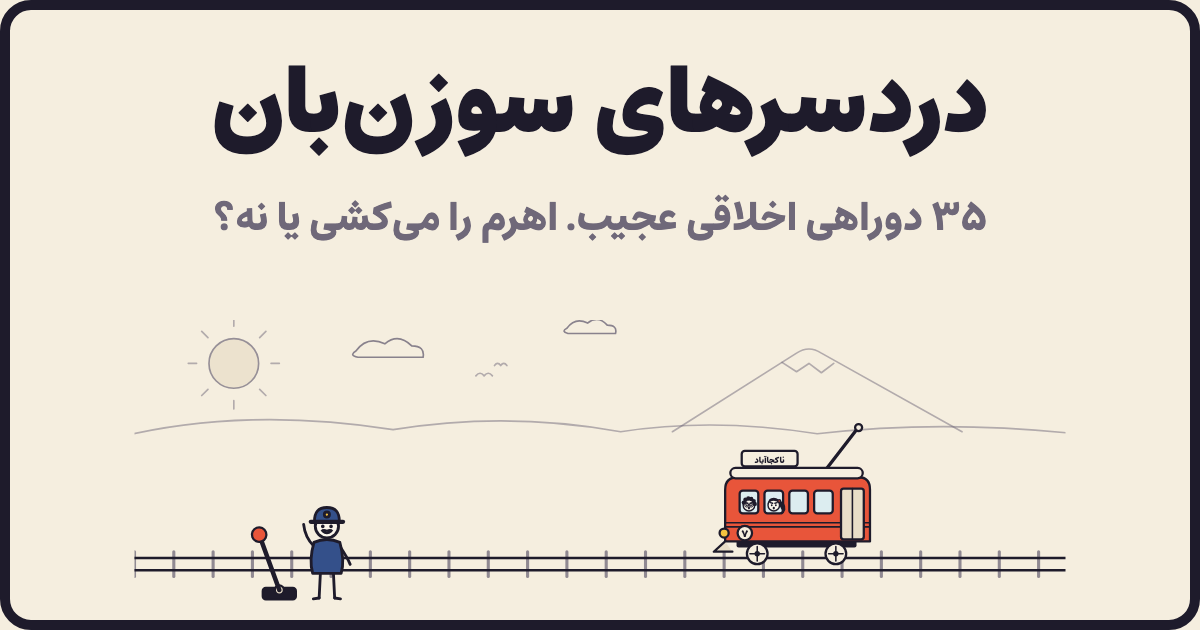
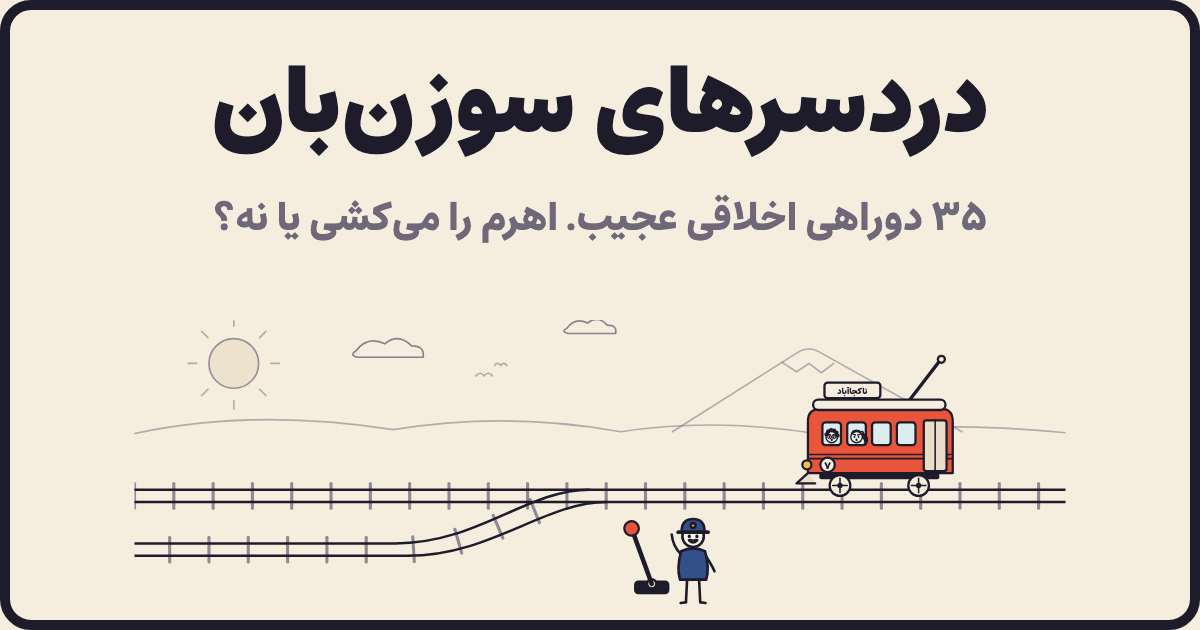
Home hero: switchman and lever beside the track, add a junction
The switchman and lever now stand on the ground in front of the track,
below the trolley's wheels, so the trolley never passes over them. The
track splits after the lever and the trolley runs on the main line.
The scene lives in art.js (heroScene) and is shared by the home page,
the share images and og.png. Reduced motion parks the trolley before
the lever. og.png regenerated; icons unchanged.

Changed region(s): [[0.0925, 0.6032, 0.8942, 0.9651], [0.7708, 0.573, 0.8017, 0.6032]]

diff --git a/public/js/art.js b/public/js/art.js
@@ -681,6 +681,58 @@ export function leverArm() {
   return p('M0 -7 L0 -62', 'ln lever-stick') + circ(0, -64, 7, 'sh f-accent knob');
 }
 
+// ───────────────────────── صحنهی صفحهی اول ─────────────────────────
+// viewBox 0 0 900 300. ریل اصلی وسط صحنه است و قطار فقط روی آن راه میرود. اهرم و سوزنبان
+// جلوتر و پایینتر، کنار ریل روی زمین ایستادهاند و از پایین چرخها پایینترند؛ پس قطار هیچوقت از رویشان رد نمیشود.
+// بعد از اهرم (در جهت حرکت قطار، یعنی سمت چپ) ریل دو شاخه میشود و شاخهی دوم به سمت جلو میپیچد.
+export const HERO_RAIL_Y = 190;
+export const HERO_TROLLEY_PARK = 720;
+
+const HERO_BRANCH = [[448, 190], [388, 190], [338, 242], [258, 242]]; // محور شاخهی دوم (بزیهی مکعبی)
+
+function bezierAt([a, b, c, d], t) {
+  const u = 1 - t;
+  const k = [u * u * u, 3 * u * u * t, 3 * u * t * t, t * t * t];
+  const dk = [-3 * u * u, 3 * u * u - 6 * u * t, 6 * u * t - 3 * t * t, 3 * t * t];
+  const sum = (w, i) => w.reduce((s, wj, j) => s + wj * [a, b, c, d][j][i], 0);
+  return { x: sum(k, 0), y: sum(k, 1), dx: sum(dk, 0), dy: sum(dk, 1) };
+}
+
+function heroTrack() {
+  const y = HERO_RAIL_Y;
+  const tie = (x1, y1, x2, y2) => `<line class="tie" x1="${x1.toFixed(1)}" y1="${y1.toFixed(1)}" x2="${x2.toFixed(1)}" y2="${y2.toFixed(1)}"/>`;
+  let ties = '';
+  for (let x = 0; x <= 912; x += 38) ties += tie(x, y - 12, x, y + 12);
+  // تراورسهای شاخه: روی پیچ عمود بر مسیر، بعد صاف تا لبهی صحنه
+  for (const t of [0.35, 0.55, 0.75, 0.95]) {
+    const { x, y: by, dx, dy } = bezierAt(HERO_BRANCH, t);
+    const n = Math.hypot(dx, dy);
+    const [nx, ny] = [-dy / n * 12, dx / n * 12];
+    ties += tie(x - nx, by - ny, x + nx, by + ny);
+  }
+  const by = HERO_BRANCH[3][1];
+  for (let x = 224; x >= -10; x -= 38) ties += tie(x, by - 12, x, by + 12);
+  const branch = (dy) => {
+    const [a, b, c, d] = HERO_BRANCH.map(([px, py], i) => [px + (i < 2 ? dy * 1.4 : dy), py + dy]);
+    return p(`M${a[0]} ${a[1]} C${b[0]} ${b[1]} ${c[0]} ${c[1]} ${d[0]} ${d[1]} H-20`, 'rail');
+  };
+  return ties +
+    p(`M-20 ${y - 6} H920`, 'rail') + p(`M-20 ${y + 6} H920`, 'rail') +
+    branch(-6) + branch(6);
+}
+
+/**
+ * کل صحنهی صفحهی اول. trolley: نشانهگذاری قطار که بیرون ساخته میشود (متحرک یا ثابت).
+ * سوزنبان کلاس hero-sw دارد تا دست تکان دادنش در CSS انیمیت شود.
+ */
+export function heroScene(trolleyMarkup) {
+  return `<g class="scenery">${scenery()}</g>` +
+    heroTrack() +
+    trolleyMarkup +
+    g(leverBase() + g(leverArm(), 'rotate(-20 0 -7)'), 'translate(500 282)') +
+    g(human({ ...SWITCHMAN, mood: 'happy', tied: false, arms: 'cheer' }), 'translate(540 294) scale(1.15)', 'hero-sw');
+}
+
 // ───────────────────────── پسزمینه ─────────────────────────
 export function scenery() {
   return (

diff --git a/test/hero.test.js b/test/hero.test.js
@@ -1,0 +1,29 @@
+import { test } from 'node:test';
+import assert from 'node:assert/strict';
+import { readFile } from 'node:fs/promises';
+import * as A from '../public/js/art.js';
+
+test('صحنهی صفحهی اول: سوزنبان و اهرم کنار ریلاند، نه رویش', () => {
+  const svg = A.heroScene('<g id="trolley"/>');
+  const tf = (cls) => {
+    const m = svg.match(new RegExp(`<g transform="translate\\(([\\d.]+) ([\\d.]+)\\)[^"]*"><g class="${cls}">`));
+    return m && { x: +m[1], y: +m[2] };
+  };
+  const sw = tf('hero-sw');
+  assert.ok(sw, 'سوزنبان پیدا نشد');
+  // پایین چرخهای قطار روی HERO_RAIL_Y است و ریل پایینی ۶ واحد پایینتر؛ تراورسها تا ۱۲ واحد.
+  // بالای سر سوزنبان (حدود ۷۵ واحد × مقیاس ۱٫۱۵) و دستهی اهرم باید زیر تراورسها بمانند.
+  assert.ok(sw.y - 75 * 1.15 > A.HERO_RAIL_Y + 12, 'سر سوزنبان به ریل رسیده');
+  const lever = svg.match(/<g transform="translate\(([\d.]+) ([\d.]+)\)"><rect/);
+  assert.ok(lever, 'اهرم پیدا نشد');
+  assert.ok(+lever[2] - 71 > A.HERO_RAIL_Y + 12, 'دستهی اهرم به ریل رسیده');
+  // قطار ثابت تصویرهای اشتراک جلوتر از سوزنبان پارک میشود
+  assert.ok(A.HERO_TROLLEY_PARK - 80 > sw.x + 20);
+});
+
+test('تعداد مرحلهها هیچجا دستی نوشته نشده', async () => {
+  for (const f of ['public/index.html', 'public/js/app.js', 'public/js/share.js', 'server/meta.js', 'README.md']) {
+    const src = await readFile(new URL(`../${f}`, import.meta.url), 'utf8');
+    assert.doesNotMatch(src, /[0-9۰-۹]+\s*دوراهی/, `عدد ثابت کنار «دوراهی» در ${f}`);
+  }
+});

diff --git a/public/js/app.js b/public/js/app.js
@@ -254,16 +254,8 @@ function html(str) {
 
 // ───────── صفحهی شروع ─────────
 function heroSvg() {
-  const ties = Array.from({ length: 25 }, (_, i) => `<line class="tie" x1="${i * 38}" y1="244" x2="${i * 38}" y2="268"/>`).join('');
-  return `
-  <svg class="hero-art" viewBox="0 0 900 300" aria-hidden="true">
-    <g class="scenery">${A.scenery()}</g>
-    ${ties}
-    <path class="rail" d="M-20 250 H920"/><path class="rail" d="M-20 262 H920"/>
-    <g transform="translate(140 288)">${A.leverBase()}<g transform="rotate(-20 0 -7)">${A.leverArm()}</g></g>
-    <g transform="translate(186 290) scale(1.25)" class="hero-sw">${A.human({ ...A.SWITCHMAN, mood: 'happy', tied: false, arms: 'cheer' })}</g>
-    <g class="hero-run"><g transform="translate(0 256)"><g class="trolley-bob">${A.trolley({ passengers: 2 })}</g></g></g>
-  </svg>`;
+  const trolley = `<g class="hero-run"><g transform="translate(0 ${A.HERO_RAIL_Y})"><g class="trolley-bob">${A.trolley({ passengers: 2 })}</g></g></g>`;
+  return `<svg class="hero-art" viewBox="0 0 900 300" aria-hidden="true">${A.heroScene(trolley)}</svg>`;
 }
 
 function introScreen() {

diff --git a/public/js/share.js b/public/js/share.js
@@ -60,12 +60,7 @@ async function svgImage(inner, viewBox, w, h, cls = '') {
 }
 
 function heroMarkup() {
-  const ties = Array.from({ length: 25 }, (_, i) => `<line class="tie" x1="${i * 38}" y1="244" x2="${i * 38}" y2="268"/>`).join('');
-  return `<g class="scenery">${A.scenery()}</g>${ties}
-    <path class="rail" d="M-20 250 H920"/><path class="rail" d="M-20 262 H920"/>
-    <g transform="translate(140 288)">${A.leverBase()}<g transform="rotate(-20 0 -7)">${A.leverArm()}</g></g>
-    <g transform="translate(186 290) scale(1.25)">${A.human({ ...A.SWITCHMAN, mood: 'happy', tied: false, arms: 'cheer' })}</g>
-    <g transform="translate(640 256)">${A.trolley({ passengers: 2 })}</g>`;
+  return A.heroScene(`<g transform="translate(${A.HERO_TROLLEY_PARK} ${A.HERO_RAIL_Y})">${A.trolley({ passengers: 2 })}</g>`);
 }
 
 // عکس ثابت از صحنهی یک مرحله: صحنه بیرون از دید ساخته میشود، قطار سر جایش قرار میگیرد و برچسبها جدا خوانده میشوند

diff --git a/public/css/style.css b/public/css/style.css
@@ -838,4 +838,6 @@ body.sheet-open { overflow: hidden; }
 
 @media (prefers-reduced-motion: reduce) {
   *, *::before, *::after { animation-duration: .01ms !important; animation-iteration-count: 1 !important; transition-duration: .01ms !important; }
+  /* قطار صفحهی اول بیحرکت، سمت راست و پیش از اهرم میایستد (همان HERO_TROLLEY_PARK در art.js) */
+  .hero-run { animation: none !important; transform: translateX(720px); }
 }
